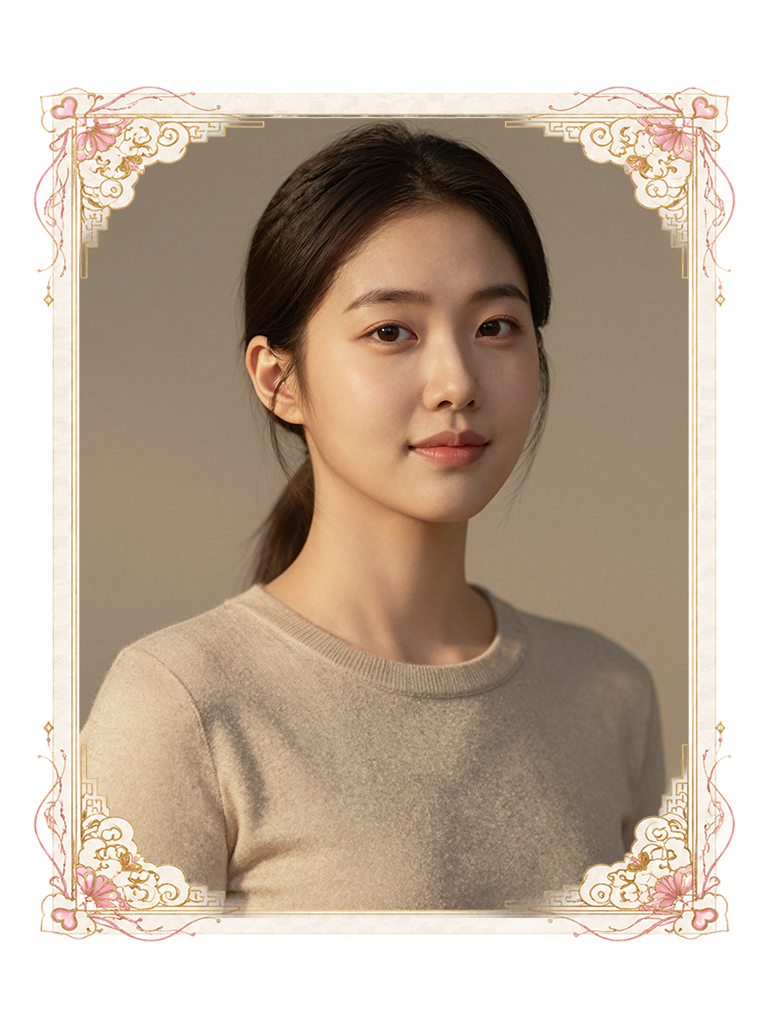
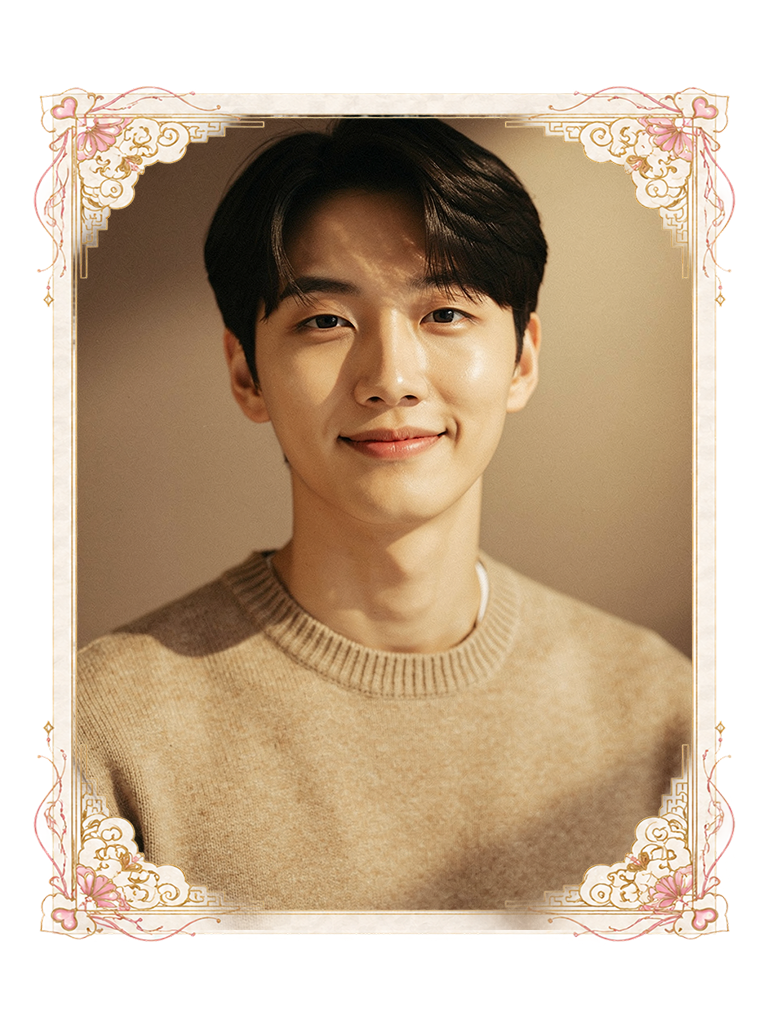
fix:[배성현]도윤 P-11 closing_bubble user_name 마스킹 회피 [HM-FE-78]
P-11 클로징 bubble의 user_name이 "배○○님" 마스킹으로 노출되던 이슈 fix.
백엔드가 user_name 치환 완료한 closing_bubble을 제공 → 프론트는 그대로 렌더.

변경:
- domain/paidReport.ts — PaidChapterP11Doyoon 타입 + p11_doyoon 옵션 필드
- views/doyoon/paid/pages/DoyoonEpiloguePage.tsx — data prop 추가
  (data.closing_bubble + data.seal_text 우선, 없을 시 MOCK fallback)
- views/doyoon/paid/DoyoonPaidScene.tsx — data={chapters.p11_doyoon} 전달

검증: tsc EXIT=0

diff --git a/src/features/saju-result/views/doyoon/paid/pages/DoyoonEpiloguePage.tsx b/src/features/saju-result/views/doyoon/paid/pages/DoyoonEpiloguePage.tsx
@@ -1,3 +1,4 @@
+import type { PaidChapterP11Doyoon } from "../../../../domain/paidReport";
 import { DoyoonPageHead } from "../components/DoyoonPageHead";
 import {
   DoyoonSection,
@@ -6,13 +7,23 @@ import { DOYOON_TOKENS } from "../components/doyoonTokens";
 
 // P-11 EPILOG — 도윤의 마지막 말 (고정, AI 없음).
 // 원본 도윤_final.html data-page-idx=11.
+// data 우선 사용 (백엔드에서 user_name 치환된 텍스트), 없으면 userName fallback.
 
 interface DoyoonEpiloguePageProps {
+  data?: PaidChapterP11Doyoon;
   userName?: string;
 }
 
-export default function DoyoonEpiloguePage({ userName }: DoyoonEpiloguePageProps) {
+const MOCK_CLOSING = (name: string) =>
+  `다 읽으셨나요? 데이터가 할 수 있는 말은 여기까지입니다.\n` +
+  `이제부터는 ${name}님의 선택이라는 변수가 결과값을 결정하겠죠.\n` +
+  `데이터상으로 ${name}님의 조합은 오차 범위를 감안해도 기대값이 굉장히 높게 측정됩니다.\n` +
+  `스스로를 의심하지 마세요. ${name}님은 이미 가장 완벽한 답안지를 갖고 계시니까요.`;
+
+export default function DoyoonEpiloguePage({ data, userName }: DoyoonEpiloguePageProps) {
   const name = userName ?? "홍길동";
+  const closing = data?.closing_bubble ?? MOCK_CLOSING(name);
+  const seal = data?.seal_text ?? "緣 · 당신의 인연은 여기에";
 
   return (
     <section
@@ -28,8 +39,8 @@ export default function DoyoonEpiloguePage({ userName }: DoyoonEpiloguePageProps
 
       <DoyoonSection>
         <SdClosingDy09 />
-        <ClosingBubble userName={name} />
-        <EpilogSeal />
+        <ClosingBubble body={closing} />
+        <EpilogSeal text={seal} />
       </DoyoonSection>
     </section>
   );
@@ -84,7 +95,7 @@ function ThreadCorner({ pos }: { pos: "tl" | "br" }) {
   );
 }
 
-function ClosingBubble({ userName }: { userName: string }) {
+function ClosingBubble({ body }: { body: string }) {
   return (
     <div
       className="my-3 rounded-[12px]"
@@ -101,19 +112,16 @@ function ClosingBubble({ userName }: { userName: string }) {
         한도윤
       </div>
       <div
-        className="text-[12px]"
+        className="text-[12px] whitespace-pre-line"
         style={{ color: DOYOON_TOKENS.text, lineHeight: 1.9, wordBreak: "keep-all" }}
       >
-        &ldquo;다 읽으셨나요? 데이터가 할 수 있는 말은 여기까지입니다.<br />
-        이제부터는 <span style={{ color: DOYOON_TOKENS.warmGold, fontWeight: 600 }}>{userName}</span>님의 선택이라는 변수가 결과값을 결정하겠죠.<br />
-        데이터상으로 {userName}님의 조합은 오차 범위를 감안해도 기대값이 굉장히 높게 측정됩니다.<br />
-        스스로를 의심하지 마세요. {userName}님은 이미 가장 완벽한 답안지를 갖고 계시니까요.&rdquo;
+        &ldquo;{body}&rdquo;
       </div>
     </div>
   );
 }
 
-function EpilogSeal() {
+function EpilogSeal({ text }: { text: string }) {
   return (
     <div className="flex flex-col items-center my-8">
       <div
@@ -137,7 +145,7 @@ function EpilogSeal() {
           fontWeight: 600,
         }}
       >
-        緣 · 당신의 인연은 여기에
+        {text}
       </div>
     </div>
   );

diff --git a/src/features/saju-result/domain/paidReport.ts b/src/features/saju-result/domain/paidReport.ts
@@ -601,6 +601,15 @@ export interface PaidChapterP10 {
   step2_labels?: string[] | null;
 }
 
+// ── P-11 도윤 패널 (에필로그) ──────────────────────────────────
+// 클로징 bubble은 백엔드에서 user_name 치환 완료된 텍스트 받음.
+// PaidReportUser의 마스킹된 user_name_initial fallback 회피.
+
+export interface PaidChapterP11Doyoon {
+  closing_bubble: string;
+  seal_text: string;
+}
+
 // ── chapters wrapper ──────────────────────────────────────────
 // P-11은 백엔드 templates 작성 후 확장. 현재는 응답에 없으므로
 // 프론트는 MOCK fallback (`*Page.tsx`의 MOCK_PN)으로 렌더한다.
@@ -627,6 +636,7 @@ export interface PaidChapters {
   p8?: PaidChapterP8;
   p9?: PaidChapterP9;
   p10?: PaidChapterP10;
+  p11_doyoon?: PaidChapterP11Doyoon;
   // p11은 templates 작성 후 추가.
 }
 

diff --git a/src/features/saju-result/views/doyoon/paid/DoyoonPaidScene.tsx b/src/features/saju-result/views/doyoon/paid/DoyoonPaidScene.tsx
@@ -49,6 +49,7 @@ export default function DoyoonPaidScene({ report }: DoyoonPaidSceneProps) {
           userName={report.user?.user_nickname ?? report.user?.user_name_initial}
         />
         <DoyoonEpiloguePage
+          data={report.chapters.p11_doyoon}
           userName={report.user?.user_nickname ?? report.user?.user_name_initial}
         />
       </PaidShell>
